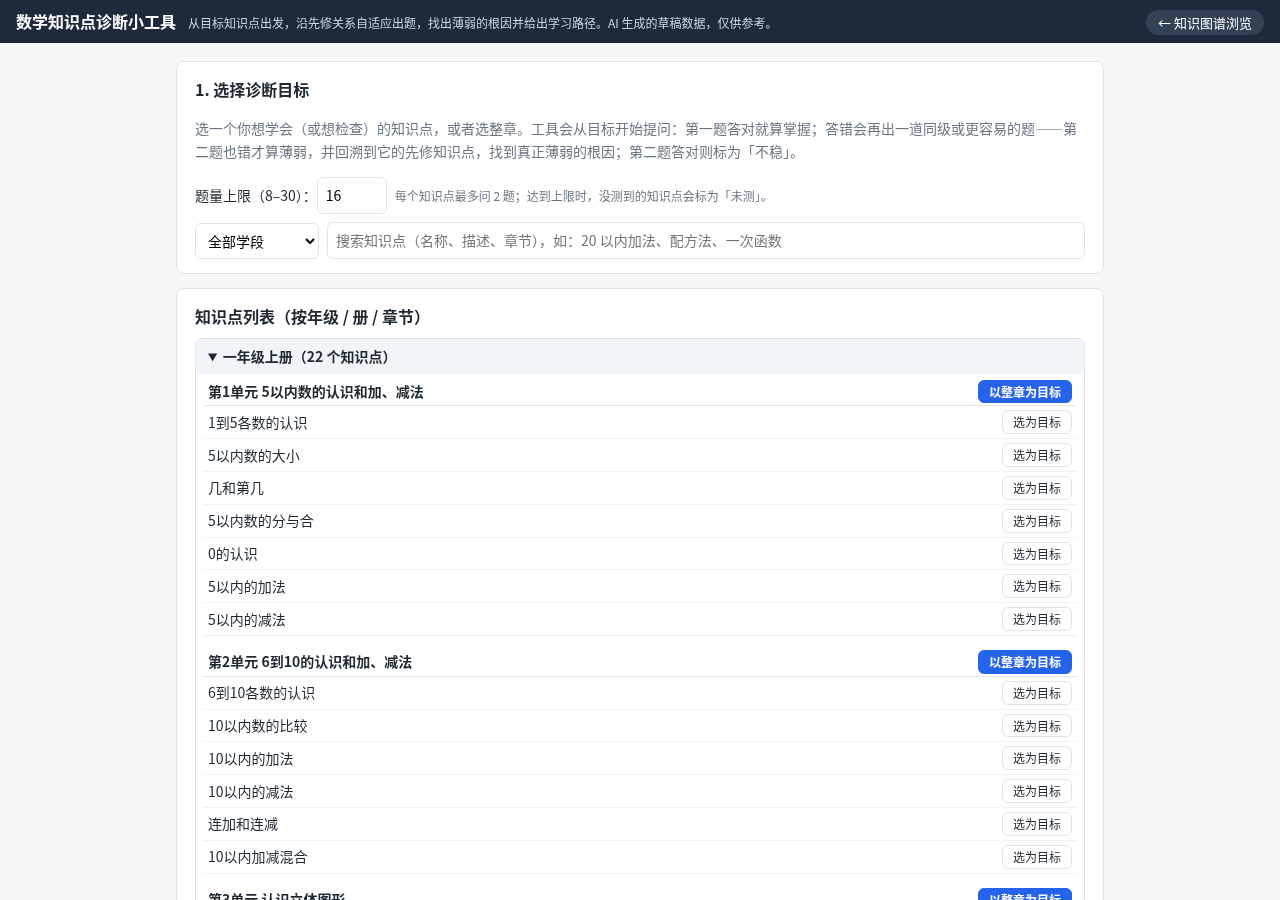
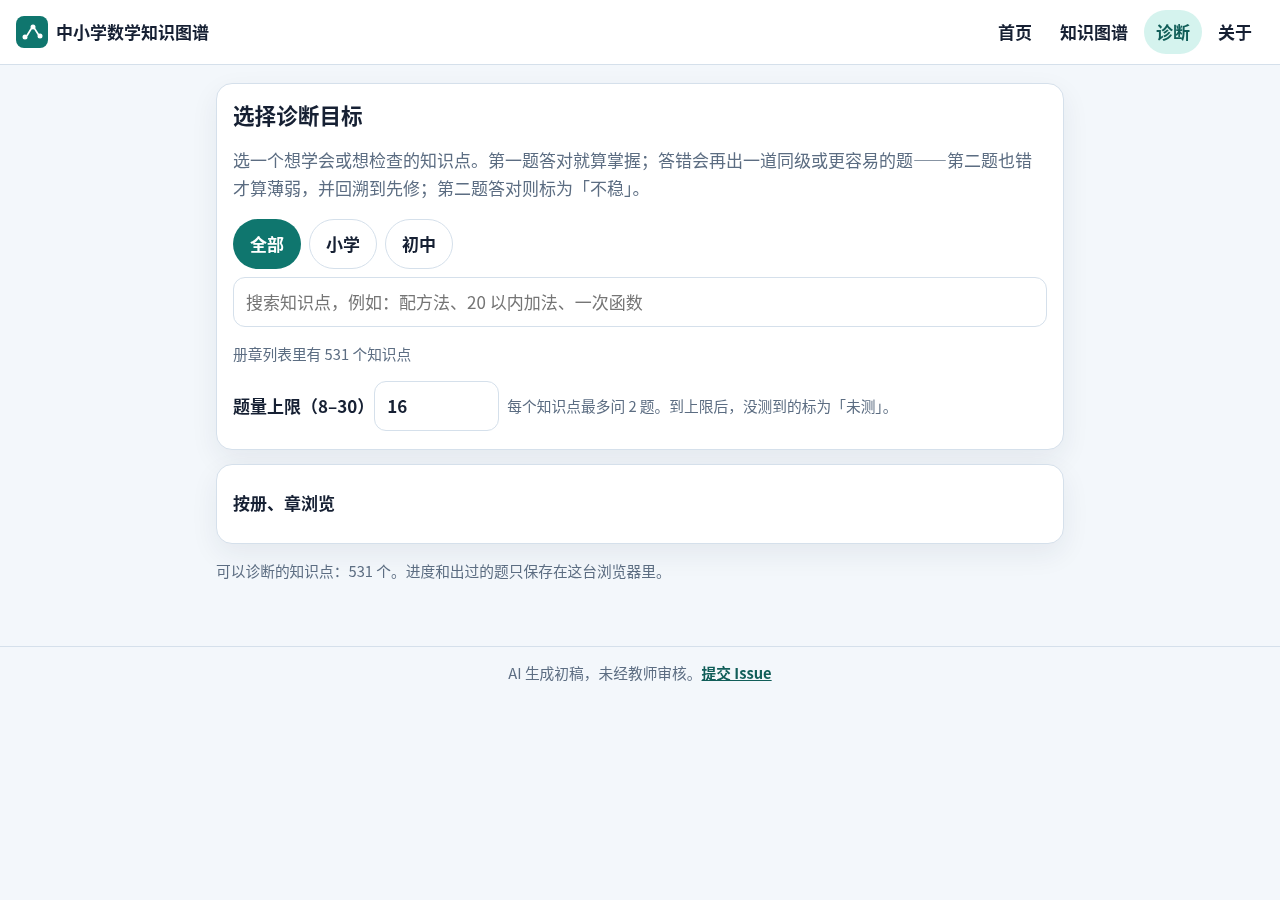
同步网页说明、截图和部署打包。
部署包带上 assets/ 和 explore/。冒烟测试覆盖首页、局部图和 375 宽，并确认页面不向外网拉脚本、样式或字体。

diff --git a/scripts/screenshot.js b/scripts/screenshot.js
@@ -8,7 +8,9 @@
  *      再用固定 seed 分别测选择题（点选项）和数值题（输入答案）的自动判题与解析显示；全程监听 console 错误；
  *   2) 用 ?target=cnm_221&demo=1 的演示模式（掌握 / 不稳 / 薄弱 三种状态都会出现）截
  *      screenshots/01-start.png、02-question.png、03-result.png、04-graph.png，
- *      并截答题后显示解析的 05-explanation.png（1280×900）。
+ *      并截答题后显示解析的 05-explanation.png（1280×900）；
+ *   3) 首页、知识图谱（cnm_221 / cnm_p001 / cnm_ext_002，以及根路径 #cnm_219）在 1280 与 375 宽下
+ *      检查局部图、无横向溢出、无外网脚本/样式/字体/图片请求，并截 06–16。
  * 环境变量：CHROME=/path/to/chrome  PORT=8765  DEBUG_PORT=9333
  */
 'use strict';
@@ -93,9 +95,16 @@ async function main() {
   const server = spawn('python3', ['-m', 'http.server', String(PORT), '--bind', '127.0.0.1'], { cwd: ROOT, stdio: 'ignore' });
   const chrome = spawn(chromePath, [
     '--headless=new', '--remote-debugging-port=' + DEBUG_PORT, '--user-data-dir=' + profile,
-    '--window-size=1280,900', '--hide-scrollbars', '--no-first-run', '--no-default-browser-check', '--disable-gpu', 'about:blank'
+    '--window-size=1280,900', '--hide-scrollbars', '--no-first-run', '--no-default-browser-check',
+    '--disable-gpu', '--no-sandbox', '--disable-dev-shm-usage',
+    '--disable-background-networking', '--disable-sync', '--disable-default-apps', '--disable-extensions',
+    '--disable-component-update', '--disable-domain-reliability', '--metrics-recording-only', '--no-pings',
+    '--safebrowsing-disable-auto-update',
+    '--disable-features=Translate,OptimizationHints,MediaRouter,DialMediaRouteProvider',
+    'about:blank'
   ], { stdio: 'ignore' });
   const errors = [];
+  const externalReqs = [];
   const checks = [];
   const check = (ok, msg) => { checks.push([ok, msg]); console.log((ok ? '  ok   ' : '  FAIL ') + msg); };
   let exitCode = 0;
@@ -108,10 +117,20 @@ async function main() {
       if (m.method === 'Runtime.exceptionThrown') errors.push('exception: ' + (m.params.exceptionDetails.exception && m.params.exceptionDetails.exception.description || m.params.exceptionDetails.text));
       if (m.method === 'Runtime.consoleAPICalled' && m.params.type === 'error') errors.push('console.error: ' + m.params.args.map((a) => a.value || a.description).join(' '));
       if (m.method === 'Log.entryAdded' && m.params.entry.level === 'error') errors.push('log: ' + m.params.entry.text + ' ' + (m.params.entry.url || ''));
-      if (m.method === 'Network.responseReceived' && m.params.response.status >= 400) errors.push('http ' + m.params.response.status + ' ' + m.params.response.url);
+      if (m.method === 'Network.responseReceived' && m.params.response.status >= 400) {
+        const url = m.params.response.url;
+        if (!/\/favicon\.ico(?:$|\?)/.test(url)) errors.push('http ' + m.params.response.status + ' ' + url);
+      }
+      if (m.method === 'Network.requestWillBeSent') noteExternal(m.params, externalReqs);
     });
     await Promise.all(['Runtime', 'Log', 'Page', 'Network'].map((d) => cdp.send(d + '.enable')));
-    await cdp.send('Emulation.setDeviceMetricsOverride', { width: 1280, height: 900, deviceScaleFactor: 1, mobile: false });
+    let viewW = 1280, viewH = 900;
+    const setView = async (w, h) => {
+      viewW = w; viewH = h;
+      await cdp.send('Emulation.setDeviceMetricsOverride', { width: w, height: h, deviceScaleFactor: 1, mobile: w < 700 });
+      await sleep(80);
+    };
+    await setView(1280, 900);
 
     const evalJs = async (expr) => {
       const r = await cdp.send('Runtime.evaluate', { expression: expr, awaitPromise: true, returnByValue: true });
@@ -125,13 +144,21 @@ async function main() {
     dumpPage = () => evalJs('document.body.innerText.slice(0, 1500)');
     const exists = (sel) => evalJs('!!document.querySelector(' + JSON.stringify(sel) + ')');
     const click = (sel) => evalJs('(() => { const e = document.querySelector(' + JSON.stringify(sel) + '); if (!e) throw new Error("no " + ' + JSON.stringify(sel) + '); e.click(); return true; })()');
-    const shot = async (file, selector) => {
+    const shot = async (file, selector, clipH) => {
       await sleep(300);
-      // 默认截页面顶部 1280×900；给 selector 则从该元素上沿起截 1280×900（可超出当前视口）
+      // 默认截当前视口宽度、从页面顶部起；给 selector 则从该元素上沿起截（可超出当前视口）
       const y = selector ? await evalJs('Math.max(0, document.querySelector(' + JSON.stringify(selector) + ').getBoundingClientRect().top + window.scrollY - 12)') : 0;
-      const r = await cdp.send('Page.captureScreenshot', { format: 'png', captureBeyondViewport: true, clip: { x: 0, y: y, width: 1280, height: 900, scale: 1 } });
+      const r = await cdp.send('Page.captureScreenshot', { format: 'png', captureBeyondViewport: true, clip: { x: 0, y: y, width: viewW, height: clipH || viewH, scale: 1 } });
       fs.writeFileSync(path.join(OUT, file), Buffer.from(r.data, 'base64'));
       console.log('  截图 screenshots/' + file);
+    };
+    const overflowOf = () => evalJs('(() => { const doc = document.documentElement; const sw = Math.max(doc.scrollWidth, document.body ? document.body.scrollWidth : 0); return { sw: sw, cw: doc.clientWidth, ok: sw <= doc.clientWidth + 1 }; })()');
+    const assetsOf = () => evalJs(LOCAL_ASSET_EXPR);
+    const checkPage = async (label) => {
+      const ov = await overflowOf();
+      check(ov.ok, label + ' 无横向溢出（scrollWidth ' + ov.sw + ' / clientWidth ' + ov.cw + '）');
+      const bad = await assetsOf();
+      check(bad.length === 0, label + ' 没有外网 script/link/font/img' + (bad.length ? '：' + bad.join('；') : ''));
     };
 
     console.log('冒烟测试');
@@ -142,7 +169,8 @@ async function main() {
     const rows = await evalJs('document.querySelectorAll("#target-list .topic-row").length');
     check(rows > 100, '开始页渲染了知识点列表（' + rows + ' 行）');
     check(await exists('.chap-head button.primary'), '有「以整章为目标」按钮');
-    check(await evalJs('document.querySelector("a.back").getAttribute("href")') === '../index.html', '有返回知识图谱的链接');
+    check(await evalJs('document.querySelector("a.back").getAttribute("href")') === '../explore/', '有返回知识图谱的链接');
+    await checkPage('诊断开始页 1280');
 
     // 搜索并选目标
     await evalJs('(() => { const s = document.getElementById("search"); s.value = "配方法"; s.dispatchEvent(new Event("input", {bubbles:true})); })()');
@@ -267,6 +295,74 @@ async function main() {
     await waitFor(() => exists('#summary'), '整章演示结果页');
     check((await evalJs('document.querySelector("#summary h2").textContent')).includes('整章'), '整章作为目标（?chapter=七上 第一章）可诊断');
 
+    console.log('首页 / 知识图谱');
+    await setView(1280, 900);
+    await goto(BASE + '/');
+    await waitFor(() => evalJs('document.getElementById("n-topics") && document.getElementById("n-topics").textContent !== "…" && document.querySelectorAll("a.grade-card").length === 9'), '首页统计');
+    const stats = await evalJs('[document.getElementById("n-topics").textContent, document.getElementById("n-edges").textContent, document.getElementById("n-questions").textContent, document.getElementById("n-standards").textContent].join(",")');
+    check(stats === '531,909,2271,230', '首页统计来自数据文件（' + stats + '）');
+    check((await evalJs('document.body.innerText')).includes('AI 生成初稿，未经教师审核') && !(await evalJs('document.title')).includes('草稿'), '首页有初稿声明，标题不含「草稿」');
+    check((await evalJs('document.querySelector("a.grade-card").getAttribute("href")')) === 'explore/?grade=1', '一年级卡片指向知识图谱');
+    await checkPage('首页 1280');
+    await shot('06-home.png', null, 1400);
+
+    const checkExplore = async (id, expect) => {
+      await goto(BASE + '/explore/#' + encodeURIComponent(id));
+      await waitFor(() => evalJs('document.getElementById("cy") && document.getElementById("cy").dataset.ready === "1"'), '局部图 ' + id, 20000);
+      const info = await evalJs('(() => { const cy = window.__cy; const hard = cy.edges(".hard"); const soft = cy.edges(".soft"); return { nodes: cy.nodes().length, hash: location.hash, title: (document.querySelector(".detail-title") || {}).textContent || "", idCode: (document.querySelector(".id-code") || {}).textContent || "", meta: document.getElementById("graph-meta").textContent, diag: (document.querySelector("a.diag-btn") || {}).getAttribute ? document.querySelector("a.diag-btn").getAttribute("href") : "", alias: (document.querySelector(".alias-note") || {}).textContent || "", hard: hard.length ? hard[0].style("line-style") : "", soft: soft.length ? soft[0].style("line-style") : "", hardN: hard.length, softN: soft.length, current: cy.nodes(".current").length }; })()');
+      check(info.ready !== 'err' && info.nodes > 1 && info.nodes < 80, id + ' 局部图渲染了 ' + info.nodes + ' 个节点（不是全图 531）');
+      check(info.meta.indexOf('向上 2 层') >= 0, id + ' 图注含「向上 2 层」（' + info.meta + '）');
+      check(info.hash === '#' + id, id + ' 地址栏哈希保持为 ' + info.hash);
+      check(info.title.indexOf(expect.title) >= 0 && info.idCode === expect.idCode, id + ' 详情是「' + info.title + '」' + info.idCode);
+      check(info.diag.indexOf('target=' + encodeURIComponent(expect.diag)) >= 0, id + ' 诊断按钮指向 ' + expect.diag);
+      check(info.current === 1, id + ' 当前节点已高亮');
+      if (expect.alias) check(info.alias.indexOf(expect.alias) >= 0 && info.alias.indexOf(id) >= 0, id + ' 显示旧编号说明');
+      if (info.hardN) check(info.hard === 'solid', id + ' 硬先修为实线');
+      if (info.softN) check(info.soft === 'dashed', id + ' 软先修为虚线（' + info.softN + ' 条）');
+      await checkPage('图谱 ' + id + ' ' + viewW);
+      return info;
+    };
+
+    await checkExplore('cnm_221', { title: '配方法', idCode: 'cnm_221', diag: 'cnm_221' });
+    await shot('07-explore-221.png');
+    await checkExplore('cnm_p001', { title: '1到5', idCode: 'cnm_p001', diag: 'cnm_p001' });
+    await shot('08-explore-p001.png');
+    await checkExplore('cnm_ext_002', { title: '分数的意义', idCode: 'cnm_p165', diag: 'cnm_p165', alias: '分数的意义与四则运算' });
+    await shot('09-explore-ext002.png');
+
+    await goto(BASE + '/#cnm_219');
+    await waitFor(() => evalJs('location.pathname.indexOf("/explore/") >= 0 && location.hash === "#cnm_219" && document.getElementById("cy") && document.getElementById("cy").dataset.ready === "1"'), '根路径 #cnm_219', 20000);
+    check((await evalJs('(document.querySelector(".id-code") || {}).textContent')) === 'cnm_219', '根路径 #cnm_219 仍定位到该知识点');
+    await checkPage('根路径 #cnm_219');
+    await shot('16-explore-219.png');
+
+    console.log('窄屏 375');
+    await setView(375, 812);
+    await goto(BASE + '/');
+    await waitFor(() => evalJs('document.getElementById("n-topics") && document.getElementById("n-topics").textContent === "531"'), '首页 375');
+    await checkPage('首页 375');
+    await shot('10-home-375.png', null, 1500);
+    await checkExplore('cnm_221', { title: '配方法', idCode: 'cnm_221', diag: 'cnm_221' });
+    await shot('11-explore-221-375.png', null, 1100);
+    await checkExplore('cnm_p001', { title: '1到5', idCode: 'cnm_p001', diag: 'cnm_p001' });
+    await shot('12-explore-p001-375.png', null, 1100);
+    await checkExplore('cnm_ext_002', { title: '分数的意义', idCode: 'cnm_p165', diag: 'cnm_p165', alias: '分数的意义与四则运算' });
+    await shot('13-explore-ext002-375.png', null, 1100);
+    await goto(BASE + '/diagnose/?target=cnm_221&demo=1');
+    await waitFor(() => exists('#summary'), '诊断结果页 375');
+    check(await exists('svg.graph'), '375 宽结果页仍有 SVG 路径图');
+    const choiceH = await evalJs('(() => { const b = document.querySelector("button"); return b ? b.getBoundingClientRect().height : 0; })()');
+    check(choiceH >= 44, '按钮触控高度 ≥ 44px（' + Math.round(choiceH) + '）');
+    await checkPage('诊断结果 375');
+    await shot('14-diagnose-375.png', null, 1100);
+    await goto(BASE + '/diagnose/');
+    await evalJs('localStorage.clear()');
+    await goto(BASE + '/diagnose/');
+    await waitFor(() => exists('#search'), '诊断开始页 375');
+    await checkPage('诊断开始页 375');
+    await shot('15-start-375.png', null, 900);
+
+    check(externalReqs.length === 0, '运行时没有页面发起的外网资源请求' + (externalReqs.length ? '：\n       ' + externalReqs.slice(0, 8).join('\n       ') : ''));
     check(errors.length === 0, 'console / 网络无错误' + (errors.length ? '：\n       ' + errors.join('\n       ') : ''));
     if (checks.some((c) => !c[0])) exitCode = 1;
     cdp.ws.close();
@@ -285,4 +381,57 @@ async function main() {
 }
 
 function fetchOk(url) { return fetch(url).then((r) => r.ok, () => false); }
+
+function noteExternal(params, bucket) {
+  const initiator = (params.initiator && params.initiator.type) || '';
+  if (initiator !== 'parser' && initiator !== 'script') return;
+  const url = params.request && params.request.url;
+  if (!url || !/^https?:/i.test(url)) return;
+  let host = '';
+  try { host = new URL(url).hostname; } catch (e) { return; }
+  if (host === '127.0.0.1' || host === 'localhost') return;
+  const type = params.type || '';
+  if (['Script', 'Stylesheet', 'Image', 'Font', 'XHR', 'Fetch', 'Document', 'Other'].indexOf(type) < 0) return;
+  const line = type + ' ' + initiator + ' ' + url;
+  if (bucket.indexOf(line) < 0) bucket.push(line);
+}
+
+const LOCAL_ASSET_EXPR = `(() => {
+  const bad = [];
+  const local = (raw) => {
+    if (!raw || raw.indexOf('data:') === 0 || raw.indexOf('blob:') === 0 || raw.charAt(0) === '#') return true;
+    try {
+      const u = new URL(raw, location.href);
+      return u.protocol === 'data:' || u.protocol === 'blob:' || u.hostname === '127.0.0.1' || u.hostname === 'localhost';
+    } catch (e) { return false; }
+  };
+  document.querySelectorAll('script[src], link[href], img[src], iframe[src], video[src], audio[src], source[src]').forEach((el) => {
+    const raw = el.getAttribute('src') || el.getAttribute('href') || '';
+    if (!local(raw)) bad.push(el.tagName.toLowerCase() + ' ' + raw);
+  });
+  Array.from(document.styleSheets).forEach((sheet) => {
+    let rules;
+    try { rules = sheet.cssRules; } catch (e) { bad.push('stylesheet ' + (sheet.href || 'inline')); return; }
+    const walk = (list) => {
+      if (!list) return;
+      for (const rule of list) {
+        if (rule.style) {
+          for (let i = 0; i < rule.style.length; i++) {
+            const val = rule.style.getPropertyValue(rule.style[i]);
+            const re = /url\\(([^)]+)\\)/g;
+            let m;
+            while ((m = re.exec(val))) {
+              const raw = m[1].trim().replace(/^['"]|['"]$/g, '');
+              if (!local(raw)) bad.push('css ' + raw);
+            }
+          }
+        }
+        if (rule.cssRules) walk(rule.cssRules);
+      }
+    };
+    walk(rules);
+  });
+  return bad;
+})()`;
+
 main();

diff --git a/README.md b/README.md
@@ -6,7 +6,11 @@
 [![在线试用](https://img.shields.io/badge/%E5%9C%A8%E7%BA%BF%E8%AF%95%E7%94%A8-math.pansgo.com-2ea44f)](https://math.pansgo.com/)
 [![GitHub Pages 备份](https://img.shields.io/badge/备份-GitHub%20Pages-lightgrey)](https://xiaoyang111222.github.io/cn-math-taxonomy/)
 
-**[→ 在线试用诊断（演示：配方法）](https://math.pansgo.com/diagnose/?target=cnm_221&demo=1)** · [知识图谱浏览](https://math.pansgo.com/) · [诊断工具](https://math.pansgo.com/diagnose/) · [GitHub Pages 备份](https://xiaoyang111222.github.io/cn-math-taxonomy/)
+**[→ 在线试用诊断（演示：配方法）](https://math.pansgo.com/diagnose/?target=cnm_221&demo=1)** · [首页](https://math.pansgo.com/) · [知识图谱](https://math.pansgo.com/explore/) · [诊断工具](https://math.pansgo.com/diagnose/) · [GitHub Pages 备份](https://xiaoyang111222.github.io/cn-math-taxonomy/)
+
+![首页：三步说明、实时统计和年级入口](screenshots/06-home.png)
+
+![知识图谱：配方法附近的先修（向上 2 层，向下 1 层）](screenshots/07-explore-221.png)
 
 ![诊断结果示例：配方法 → 回溯到完全平方公式](screenshots/03-result.png)
 
@@ -75,7 +79,7 @@
 | 五上–六下（现行） | 五上：小数乘法；位置；小数除法；可能性；简易方程；多边形的面积；数学广角——植树问题。五下：观察物体（三）；因数与倍数；长方体和正方体；分数的意义和性质；图形的运动（三）；分数的加法和减法；折线统计图；数学广角——找次品。六上：分数乘法；位置与方向（二）；分数除法；比；圆；百分数（一）；扇形统计图；数学广角——数与形。六下：负数；百分数（二）；圆柱与圆锥；比例；数学广角——鸽巢问题 | **非官方、待核**。教师之家汇总 <https://www.renjiaoshe.com/xiaoxueshuxue.html> 与数学课 <https://www.shuxueke.net/mulu> 的五、六年级单元名一致（这两页的一、二年级仍是旧目录，一、二年级不采用它们）。六上 2022 年印次预览（<https://zy.21cnjy.com/15027400>）在「圆」后有综合与实践「确定起跑线」、扇形统计图后有「节约用水」，**本图谱未单列，待核**。 |
 
 数学广角保持为编号单元，领域记为综合与实践，不改成「综合与实践」那种 chapter 写法。
-- **旧的小学外部节点（方案 b）**：原来的 18 个 `cnm_ext_*` 已从 `topics.json` **删除**，不保留为汇总节点。`data/id-aliases.json` 把每个旧 id 映射到一个或多个小学正式知识点（`cnm_pNNN`）。浏览页遇到 `#cnm_ext_002` 会打开映射里的第一个小学知识点；诊断页 `?target=cnm_ext_002` 会把该旧 id 展开成映射里的全部小学知识点再开始诊断。图上不再有任何 `cnm_ext_*` 边。
+- **旧的小学外部节点（方案 b）**：原来的 18 个 `cnm_ext_*` 已从 `topics.json` **删除**，不保留为汇总节点。`data/id-aliases.json` 把每个旧 id 映射到一个或多个小学正式知识点（`cnm_pNNN`）。根路径或知识图谱页遇到 `#cnm_ext_002` 会打开映射里的第一个小学知识点（地址栏仍保留这个旧编号）；诊断页 `?target=cnm_ext_002` 会把该旧 id 展开成映射里的全部小学知识点再开始诊断。图上不再有任何 `cnm_ext_*` 边。
 - **格式参考**：已阅读 Marble 的 `data/topics.json` / `data/dependencies.json`（节点含 `type`、`domain`、`evidence`、`assessmentPrompt`；边为 `topicId` 依赖 `prerequisiteId`）。其中文分支 [os-taxonomy-beijing](https://github.com/luw2007/os-taxonomy-beijing) 只读了 README，**没有解析它的数据文件**。本项目在字段含义上对应关系为：`mastery_criteria` ≈ `evidence`，`diagnostic_question` ≈ `assessmentPrompt`；但文件顶层是裸数组（没有 `version`/`topicCount` 包装），id 为 `cnm_NNN`，也没有 `centrality`、`ageRange`、`standards`。
 
 ## 文件
@@ -95,11 +99,16 @@ scripts/validate.py      校验脚本（仅标准库；含题库检查）
 scripts/verify_questions.py  题库答案自动核验（受限表达式求值）
 scripts/second_pass.py       独立第二遍复核的辅助脚本（出盲解题、比对答案）
 CHANGELOG.md             按日期记录的变更日志（含 id 变动说明）
-index.html               单文件浏览页面（无外部依赖）
+index.html               首页（实时统计、三步说明、按年级进入）
+explore/                 知识图谱浏览（index.html、app.js；局部先修图）
+assets/site.css          全站配色、字号、导航（浏览页与诊断页共用）
+assets/explore.css       知识图谱三栏布局
+assets/home.js           首页统计与年级入口（从 data/*.json 计算）
+assets/vendor/           Cytoscape 3.30.4、dagre 0.8.5、cytoscape-dagre 2.5.0（MIT，随仓库分发，见 VENDOR.md）
 diagnose/                诊断小工具（纯静态：index.html、engine.js、app.js、style.css、README.md）
 tests/test_engine.js     诊断引擎测试（Node，无依赖）
 scripts/screenshot.js    无头 Chrome 冒烟测试与截图脚本
-screenshots/             诊断小工具截图（01-start / 02-question / 03-result / 04-graph / 05-explanation）
+screenshots/             首页、知识图谱与诊断页截图（01–05 诊断流程，06 起为新界面与窄屏）
 ```
 
 ### topics.json 字段
@@ -189,7 +198,7 @@ node tests/test_engine.js                          # 引擎测试
 node scripts/screenshot.js                         # 冒烟测试 + 截图（需要本机 Chrome）
 ```
 
-算法说明、判题规则、URL 参数与局限见 [diagnose/README.md](diagnose/README.md)；浏览页 `index.html` 右上角也有入口。每个知识点最多问 2 题，诊断结果只是线索。
+算法说明、判题规则、URL 参数与局限见 [diagnose/README.md](diagnose/README.md)。首页、知识图谱和诊断页顶部都有同一套导航。每个知识点最多问 2 题，诊断结果只是线索。
 
 ## 小学知识点（2026-10-19）
 
@@ -239,16 +248,24 @@ python3 scripts/validate.py
 
 检查：JSON 合法；id 唯一；必填字段齐全；`domain`/`type`/`strength` 取值合法；每条边的两端都存在；无自环、无重复边；无环（有环时打印环路）；每个非外部知识点要么有先修边要么有 `root_reason`；没有完全孤立的节点。并打印按领域、按册次的数量以及边数、hard/soft 数。第三轮新增：`standards` 引用的课标 id 必须存在于 `data/cn-curriculum-standards.json`，`confidence` 只能是 `exact`/`inferred`，课标文件自身的 id 格式与编号连续性；并打印课标条目数、映射覆盖率；正式知识点 `standards` 为空时只打印警告（至多 30 个），设置 `STRICT_STANDARDS=1` 才视为错误。全部通过时输出 `VALIDATION PASSED` 且退出码为 0，否则输出错误并以非 0 退出。
 
-## 打开浏览页面
+## 打开网页
 
 页面通过 `fetch` 读取 `data/*.json`，浏览器不允许直接用 `file://` 打开，请在本目录启动一个静态服务器：
 
 ```bash
 python3 -m http.server 8000
-# 然后访问 http://localhost:8000/
+# 首页 http://localhost:8000/
+# 知识图谱 http://localhost:8000/explore/
+# 诊断 http://localhost:8000/diagnose/
 ```
 
-功能：左侧可按学科、学段（全部 / 小学 / 初中）、年级或册次、类型筛选并搜索（名称、描述、章节）。点击知识点后显示描述、掌握标准、诊断题（答案默认折叠）、**先修链**（向上递归，树状或分层列表两种视图，边上标注硬/软先修及理由），以及**它是哪些后续知识点的先修**。地址栏 `#cnm_219` 或 `#cnm_p001` 可直接定位。`#cnm_ext_002` 这类旧编号会跳到 `id-aliases.json` 里的第一个小学知识点。页面标题是「中小学数学知识图谱」。
+三个页面共用 `assets/site.css`（柔和青绿主色，小学 / 初中两种辅助色，跟随系统深色模式）和顶部导航：首页、知识图谱、诊断、关于（GitHub）。图形库放在 `assets/vendor/`，页面不从外网 CDN 加载脚本、样式或字体。旧链接 `#cnm_219`、`#cnm_p001`、`#cnm_ext_002` 写在网站根路径上时，会转到知识图谱的同一哈希。
+
+**首页**（`index.html`）：一句话介绍；三步（选知识点 → 自适应答题 → 找到根因和学习路径）；四张统计卡（知识点、先修边、题目、课标条目，打开时从数据文件计数，不写死）；「开始诊断」「浏览知识图谱」；一至九年级入口（链到 `explore/?grade=`）。
+
+**知识图谱**（`explore/`）：左侧搜索，以及学段 / 年级 / 领域筛选，结果按年级·册·章折叠。手机上目录收在顶部抽屉里。中间用 Cytoscape + dagre 只画**当前知识点的局部图**：默认向上 2 层先修（可改 1 / 2 / 3 层或全部祖先），向下 1 层。硬先修实线、软先修虚线，小学和初中节点颜色不同，点节点即可换选中项，可缩放、拖动和「适配画面」。不会默认铺开全部 531 个点。右侧（窄屏在图下方）是详情：名称、年级册章、领域、类型、描述、掌握标准、课标条目、样题（答案折叠）、先修列表，以及「被哪些知识点依赖」。大按钮「诊断这个知识点」进入 `diagnose/?target=<id>`。
+
+**诊断**（`diagnose/`）：开始页先按学段筛选并搜索，册章列表仍在，但默认折叠。答题卡片和选项加大（触控不小于 44px）。结果页把根因、不稳和学习路径分成卡片，路径图仍是原来的 SVG。导出 JSON 和打印保留。
 
 ## 后续建议
 
@@ -267,11 +284,11 @@ python3 -m http.server 8000
 ./scripts/deploy-cf.sh
 ```
 
-脚本会打包 `index.html`、`diagnose/`、`data/` 中页面用到的文件，部署到 Cloudflare Pages 的 `main` 生产分支。不改动 VPS / Caddy。
+脚本会打包 `index.html`、`assets/`（含图形库）、`explore/`、`diagnose/`、`data/` 中页面用到的文件，部署到 Cloudflare Pages 的 `main` 生产分支。不改动 VPS / Caddy。截图和出题批次不会打进部署包。
 
 ## 许可证 / License
 
-本项目（知识图谱数据、题库、诊断工具代码及文档）采用 [知识共享 署名-非商业性使用 4.0 国际许可协议（CC BY-NC 4.0）](https://creativecommons.org/licenses/by-nc/4.0/deed.zh-hans) 授权，完整条款见 [LICENSE](LICENSE)。
+本项目（知识图谱数据、题库、诊断工具代码及文档）采用 [知识共享 署名-非商业性使用 4.0 国际许可协议（CC BY-NC 4.0）](https://creativecommons.org/licenses/by-nc/4.0/deed.zh-hans) 授权，完整条款见 [LICENSE](LICENSE)。`assets/vendor/` 里的 Cytoscape、dagre、cytoscape-dagre 仍是各自的 MIT 许可证（见 `assets/vendor/VENDOR.md` 和同目录的 LICENSE 文件），不改成 CC BY-NC。
 
 - ✅ 可以免费用于个人学习、教学、研究，可以修改和再分发，但需署名并注明来源（本仓库链接）。
 - ❌ 不得用于商业用途（包括但不限于付费课程、付费 App、机构收费服务、售卖题库等）。

diff --git a/CHANGELOG.md b/CHANGELOG.md
@@ -1,5 +1,15 @@
 # 变更日志
 
+## 2026-10-19（网页外观）
+
+重做静态站的外观和浏览方式。数据文件和 `diagnose/engine.js` 的判题、会话、对外接口没有改。
+
+- 首页改为 `index.html`：一句话介绍、三步说明、从数据文件实时计数的统计卡、诊断 / 图谱入口、一至九年级卡片。根路径上的旧哈希（`#cnm_219`、`#cnm_p001`、`#cnm_ext_002`）会转到 `explore/` 的同一哈希。
+- 知识图谱改到 `explore/`。左侧搜索和学段 / 年级 / 领域筛选，按年级·册·章折叠；窄屏收成顶部抽屉。中间用随仓库分发的 Cytoscape 3.30.4 + dagre 0.8.5 + cytoscape-dagre 2.5.0 只画选中知识点的局部图（默认向上 2 层、向下 1 层；硬边实线、软边虚线）。右侧是详情和「诊断这个知识点」。
+- 诊断页套用同一套导航和 `assets/site.css`。开始页改为学段切换 + 搜索优先，册章列表默认折叠。答题字号和选项加大。结果页卡片化，路径图仍用原来的 SVG。导出和打印保留。
+- 页面标题去掉「草稿」。页脚保留「AI 生成初稿，未经教师审核」和 Issue 链接。
+- `scripts/deploy-cf.sh` 的部署包增加 `assets/` 和 `explore/`。`scripts/screenshot.js` 增加首页、局部图和 375 宽检查。
+
 ## 2026-10-19（小学正式知识点）
 
 把小学数学（1–6 年级）接进同一张图。诊断答错初中题时，可以回溯到具体的小学知识点。初中知识点的 **id、名称、题目没有改**；初中—初中先修边没有改。第四学段课标条目正文没有改。
